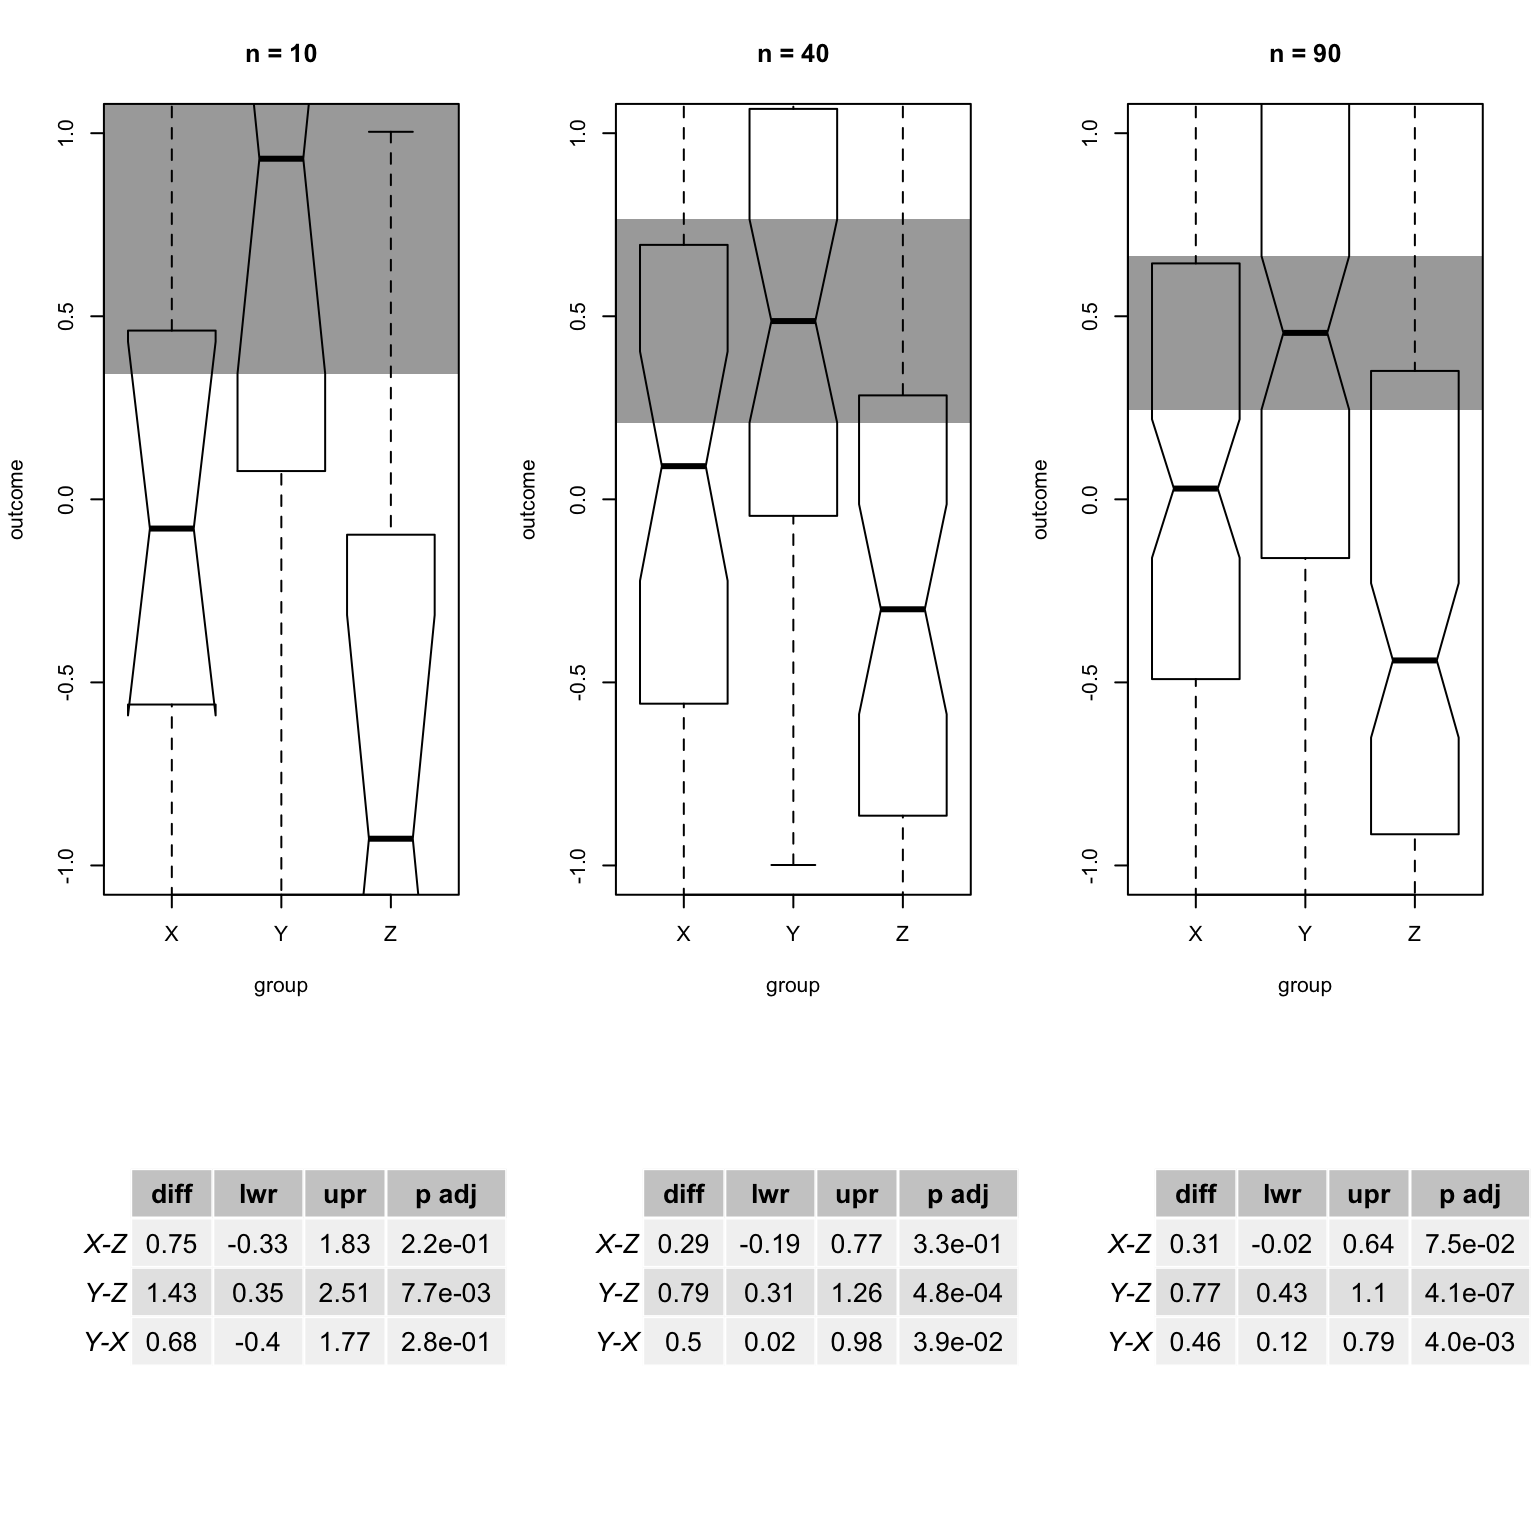
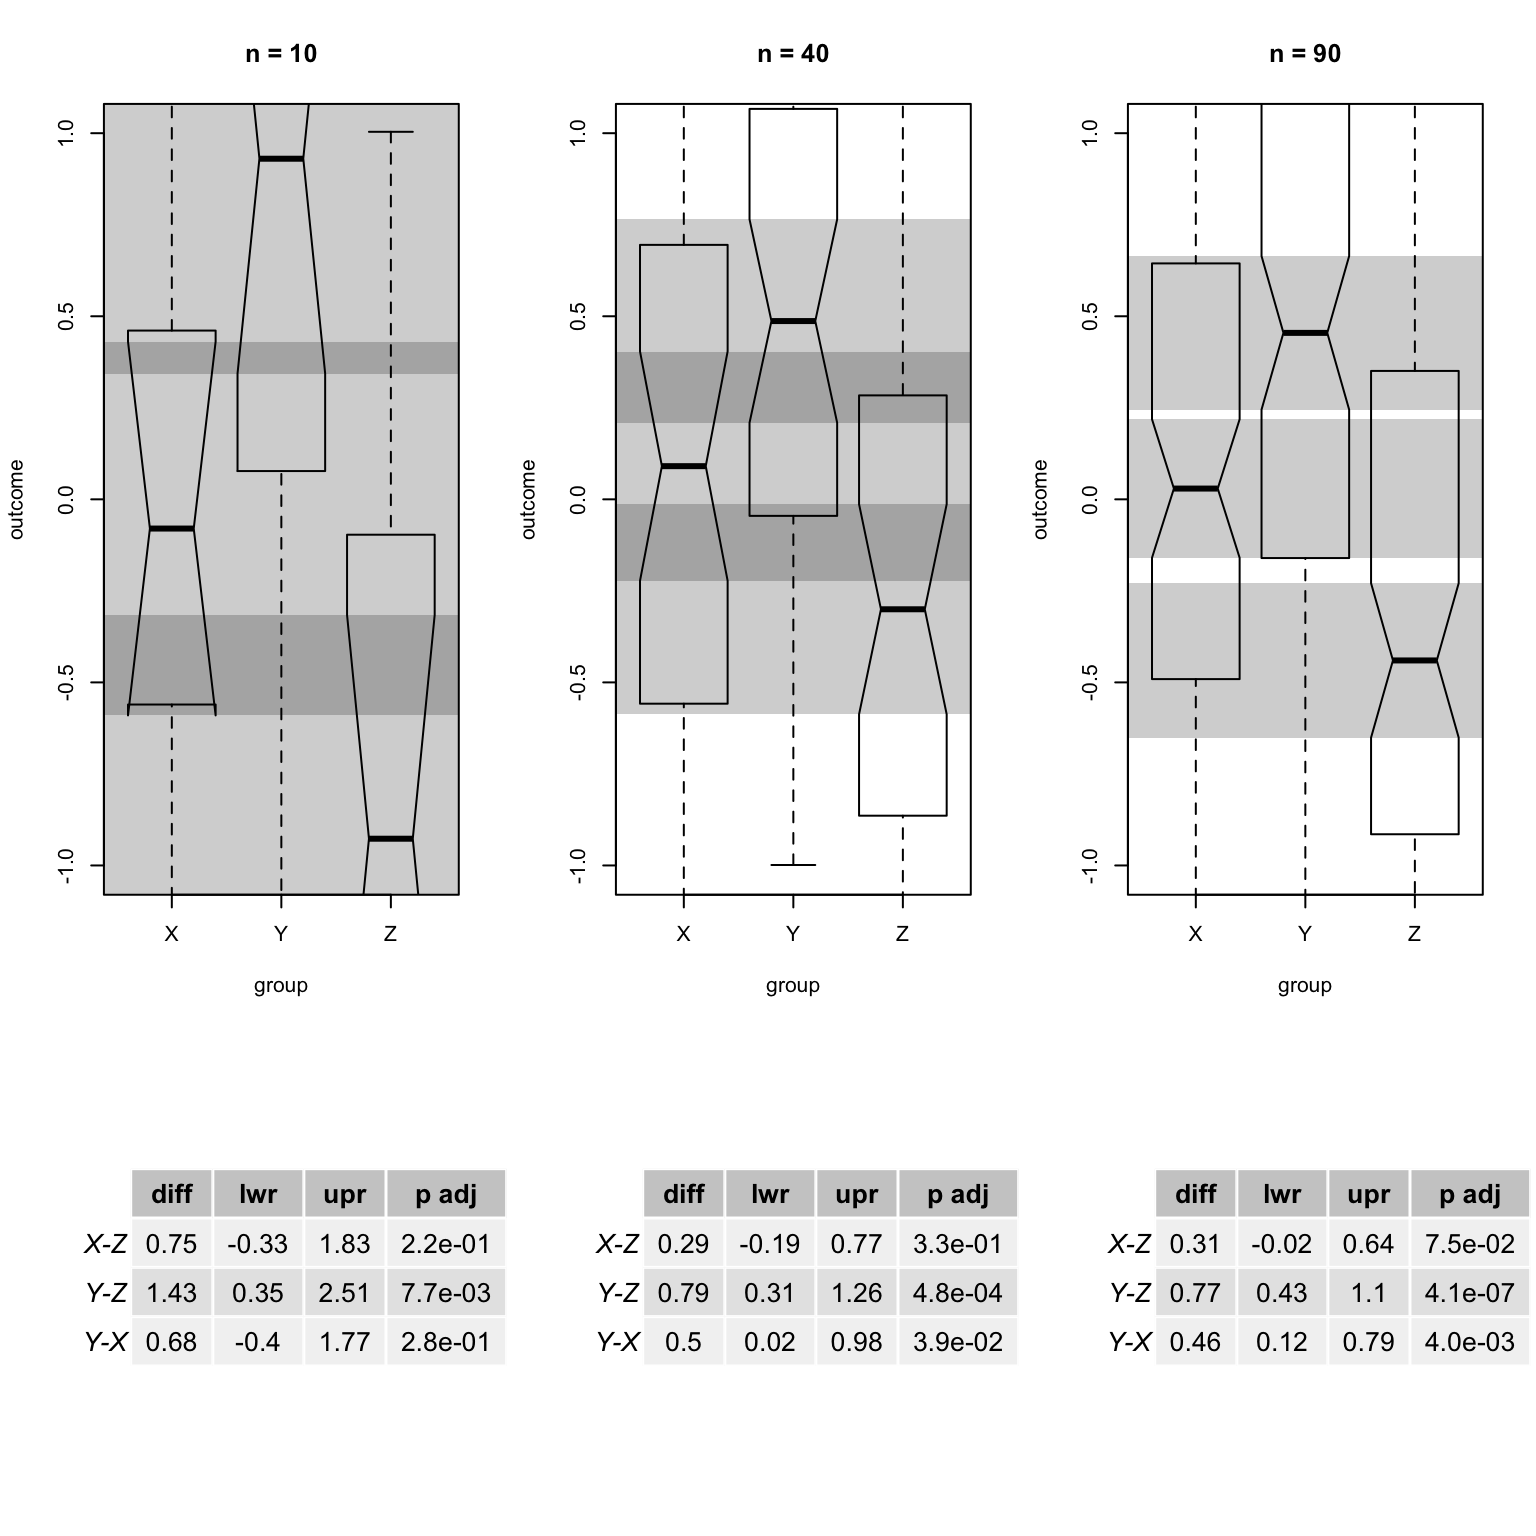
update notched boxplots

Changed region(s): [[0.0625, 0.0625, 0.3125, 0.5938], [0.375, 0.125, 0.6562, 0.4688], [0.7188, 0.1562, 0.9688, 0.5]]

diff --git a/rmd_notched_boxplot.html b/rmd_notched_boxplot.html
@@ -12,7 +12,7 @@
 
 
 
-<title>Data Binning and Correlation</title>
+<title>Notched Boxplots</title>
 
 <script src="site_libs/jquery-1.11.3/jquery.min.js"></script>
 <meta name="viewport" content="width=device-width, initial-scale=1" />
@@ -290,13 +290,15 @@ $(document).ready(function () {
 
 
 
-<h1 class="title toc-ignore">Data Binning and Correlation</h1>
+<h1 class="title toc-ignore">Notched Boxplots</h1>
 
 </div>
 
 <div id="TOC">
 <ul>
-<li><a href="#simulation">Simulation</a></li>
+<li><a href="#groups-comparison-example">3-groups Comparison Example</a></li>
+<li><a href="#groups-simulation">3-groups Simulation</a></li>
+<li><a href="#many-groups-simulation">Many Groups Simulation</a></li>
 </ul>
 </div>
 
@@ -315,14 +317,14 @@ a {
 <hr />
 <ul>
 <li>Aim: demonstrate advantages and disadvantages of notched bloxplots</li>
-<li>?boxplot help page: if notch is TRUE, a notch is drawn in each side of the boxes. If the notches of two plots do not overlap this is ‘strong evidence’ that the two medians differ (Chambers et al, 1983, p. 62)</li>
-<li>The notches (if requested) extend to +/-1.58 IQR/sqrt(n). This seems to be based on the same calculations as the formula with 1.57 in Chambers et al (1983, p. 62), given in McGill et al (1978, p. 16). They are based on asymptotic normality of the median and roughly equal sample sizes for the two medians being compared, and are said to be rather insensitive to the underlying distributions of the samples. The idea appears to be to give roughly a 95% confidence interval for the difference in two medians.</li>
+<li>boxplot help page: “if notch is TRUE, a notch is drawn in each side of the boxes. If the notches of two plots do not overlap this is ‘strong evidence’ that the two medians differ (Chambers et al, 1983, p. 62)”</li>
+<li>“The notches (if requested) extend to +/-1.58 IQR/sqrt(n). This seems to be based on the same calculations as the formula with 1.57 in Chambers et al (1983, p. 62), given in McGill et al (1978, p. 16). They are based on asymptotic normality of the median and roughly equal sample sizes for the two medians being compared, and are said to be rather insensitive to the underlying distributions of the samples. The idea appears to be to give roughly a 95% confidence interval for the difference in two medians.”</li>
 </ul>
 <hr />
-<div id="simulation" class="section level3">
-<h3>Simulation</h3>
+<div id="groups-comparison-example" class="section level3">
+<h3>3-groups Comparison Example</h3>
 <ul>
-<li>3 group comparison (x,y,z)</li>
+<li>3 variables (x,y,z)</li>
 <li>normal distribution</li>
 <li>different means and same standard deviation</li>
 <li>investigate effect of n</li>
@@ -354,9 +356,18 @@ for(i in seq_along(ns)){
             notch = TRUE, ylim = c(-1,1),
             main = paste(&quot;n =&quot;, n))
     
+    rect(xleft = 0, ybottom = median(x)-IQR(x, type = 2)*1.58/sqrt(n), 
+         xright = 4, ytop =   median(x)+IQR(x, type = 2)*1.58/sqrt(n), 
+         border = NA, col = &quot;#00000033&quot;)
+    
     rect(xleft = 0, ybottom = median(y)-IQR(y, type = 2)*1.58/sqrt(n), 
-         xright = 4, ytop = median(y)+IQR(y, type = 2)*1.58/sqrt(n), 
-         border = NA, col = &quot;#00000066&quot;)
+         xright = 4, ytop =   median(y)+IQR(y, type = 2)*1.58/sqrt(n), 
+         border = NA, col = &quot;#00000033&quot;)
+    
+    
+    rect(xleft = 0, ybottom = median(z)-IQR(z, type = 2)*1.58/sqrt(n), 
+         xright = 4, ytop =   median(z)+IQR(z, type = 2)*1.58/sqrt(n), 
+         border = NA, col = &quot;#00000033&quot;)
     
     # fit anova
     fit &lt;- aov(outcome ~ group, data = dat)
@@ -378,12 +389,123 @@ for(i in seq_along(ns)){
 }</code></pre>
 <p><img src="rmd_notched_boxplot_files/figure-html/unnamed-chunk-1-1.png" width="768" style="display: block; margin: auto;" /></p>
 <ul>
-<li>as expected for a 95% CI the notches decrease with increased n</li>
-<li>the overlap seems to be quite conservative indicator</li>
-<li>Tukey test gives clearly signifcant result (n=40, X-Z) but notches overlap</li>
+<li>as expected notch intervals decrease with increased n</li>
+<li>n = 10, X-Y and X-Z notches overlap and only Y-Z is significant (notches do not overlap)</li>
+<li>n = 40, X-Y and X-Z notches overlap and Y-Z as well as X-Y is significant</li>
+<li>n = 90, none of the notches overlap but X-Z is not significant</li>
+<li>notch overlap is not always consistent with Tukey test</li>
 </ul>
 <hr />
-<p>… to be continued …</p>
+</div>
+<div id="groups-simulation" class="section level3">
+<h3>3-groups Simulation</h3>
+<ul>
+<li>3 groups, show only X-Y comparison</li>
+</ul>
+<pre class="r"><code>n = 40
+
+n_overlap1 &lt;- replicate(1000, expr = {
+    
+    x &lt;- rnorm(n, 0)
+    y &lt;- rnorm(n, 0.55)
+    # no need for z (notches are constructed independently)
+    
+    x_upr &lt;- median(x)+IQR(x, type = 2)*1.58/sqrt(n)
+    x_lwr &lt;- median(x)-IQR(x, type = 2)*1.58/sqrt(n)
+    y_upr &lt;- median(y)+IQR(y, type = 2)*1.58/sqrt(n)
+    y_lwr &lt;- median(y)-IQR(y, type = 2)*1.58/sqrt(n)
+    
+    !(x_lwr &gt; y_upr | x_upr &lt; y_lwr)
+    
+})
+
+
+n_overlap2 &lt;- replicate(1000, expr = {
+    
+    x &lt;- rnorm(n, 0)
+    y &lt;- rnorm(n, 0.55)
+    z &lt;- rnorm(n, -0.25)
+    
+    dat &lt;- data.frame(outcome = c(x,y,z),
+                      group = rep(c(&quot;X&quot;,&quot;Y&quot;,&quot;Z&quot;), each = n))
+    
+    fit &lt;- aov(outcome ~ group, data = dat)
+    tukey_results &lt;- TukeyHSD(fit, ordered = FALSE)$group
+    
+    tukey_results[&quot;Y-X&quot;,2] &lt; 0  &amp; tukey_results[&quot;Y-X&quot;,3] &gt; 0
+})
+
+
+mean(n_overlap1); mean(n_overlap2)</code></pre>
+<pre><code>## [1] 0.66</code></pre>
+<pre><code>## [1] 0.468</code></pre>
+<ul>
+<li>it is more frequent that the notch intervals overlap than the Tukey intervals overlap 0</li>
+<li>in such setup we would find more often significant results using Tukey test</li>
+</ul>
+<hr />
+</div>
+<div id="many-groups-simulation" class="section level3">
+<h3>Many Groups Simulation</h3>
+<ul>
+<li>few additional Zs</li>
+</ul>
+<pre class="r"><code>n = 40
+
+n_overlap1 &lt;- replicate(1000, expr = {
+    
+    x &lt;- rnorm(n, 0)
+    y &lt;- rnorm(n, 0.55)
+    # no need for z (notches are constructed independently)
+    
+    x_upr &lt;- median(x)+IQR(x, type = 2)*1.58/sqrt(n)
+    x_lwr &lt;- median(x)-IQR(x, type = 2)*1.58/sqrt(n)
+    y_upr &lt;- median(y)+IQR(y, type = 2)*1.58/sqrt(n)
+    y_lwr &lt;- median(y)-IQR(y, type = 2)*1.58/sqrt(n)
+    
+    !(x_lwr &gt; y_upr | x_upr &lt; y_lwr)
+})
+
+
+
+n_overlap2 &lt;- replicate(1000, expr = {
+    
+    x &lt;- rnorm(n, 0)
+    y &lt;- rnorm(n, 0.55)
+    z1 &lt;- rnorm(n, -0.25)
+    # add manually some Zs
+    z2 &lt;- rnorm(n, -0.25)
+    z3 &lt;- rnorm(n, -0.25)
+    z4 &lt;- rnorm(n, -0.25)
+    z5 &lt;- rnorm(n, -0.25)
+    z6 &lt;- rnorm(n, -0.25)
+    z7 &lt;- rnorm(n, -0.25)
+    z8 &lt;- rnorm(n, -0.25)
+    
+    dat &lt;- data.frame(outcome = c(x,y,z1,z2,z3,z4,z5,z6,z7,z8),
+                      group = rep(c(&quot;X&quot;,&quot;Y&quot;,&quot;Z1&quot;,&quot;Z2&quot;,&quot;Z3&quot;,&quot;Z4&quot;,&quot;Z5&quot;,&quot;Z6&quot;,&quot;Z7&quot;,&quot;Z8&quot;), each = n))
+    
+    fit &lt;- aov(outcome ~ group, data = dat)
+    tukey_results &lt;- TukeyHSD(fit, ordered = FALSE)$group
+    
+    tukey_results[&quot;Y-X&quot;,2] &lt; 0  &amp; tukey_results[&quot;Y-X&quot;,3] &gt; 0
+})
+
+
+mean(n_overlap1); mean(n_overlap2)</code></pre>
+<pre><code>## [1] 0.661</code></pre>
+<pre><code>## [1] 0.751</code></pre>
+<ul>
+<li>constructing the notch intervals does not take into account the number of groups/comparisons</li>
+<li>by adding more groups Tukey intervals more frequently include 0 (not significant)</li>
+</ul>
+<hr />
+<p>Conclusions:</p>
+<ul>
+<li>notch intervals are conservative when having a few groups only</li>
+<li>they are not corrected for multiple tests, so with many groups it becomes anti-conservative</li>
+<li>due this behavior notched boxplot can only be used as a quick exploratory tool</li>
+</ul>
 </div>
 
 

diff --git a/index.html b/index.html
@@ -293,7 +293,7 @@ $(document).ready(function () {
 
 <h1 class="title toc-ignore">A Collection of Computational Methods in Biology</h1>
 <h4 class="author">by tschauer</h4>
-<h4 class="date">14 November, 2019</h4>
+<h4 class="date">18 November, 2019</h4>
 
 </div>
 

diff --git a/biostats.html b/biostats.html
@@ -293,7 +293,7 @@ $(document).ready(function () {
 
 <h1 class="title toc-ignore">Selected Statistical Methods in Biology</h1>
 <h4 class="author">by tschauer</h4>
-<h4 class="date">14 November, 2019</h4>
+<h4 class="date">18 November, 2019</h4>
 
 </div>
 

diff --git a/genomics.html b/genomics.html
@@ -293,7 +293,7 @@ $(document).ready(function () {
 
 <h1 class="title toc-ignore">Genomics Methods</h1>
 <h4 class="author">by tschauer</h4>
-<h4 class="date">14 November, 2019</h4>
+<h4 class="date">18 November, 2019</h4>
 
 </div>
 
